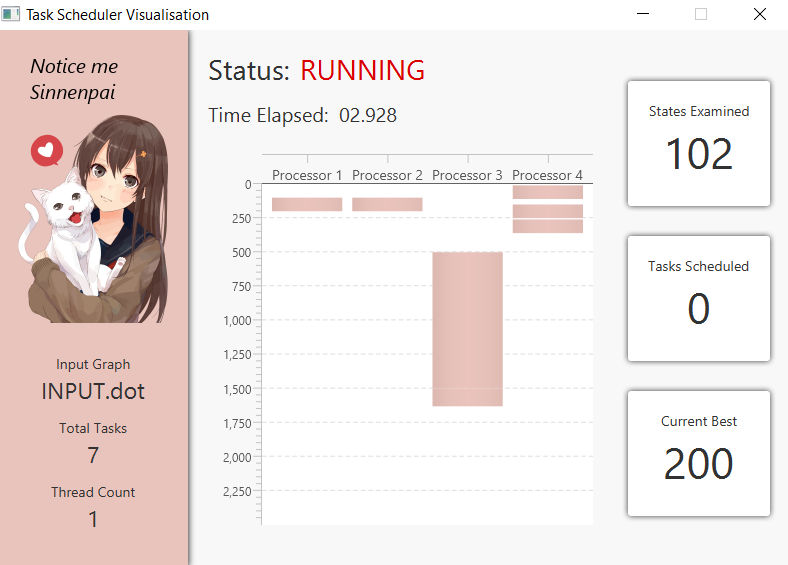
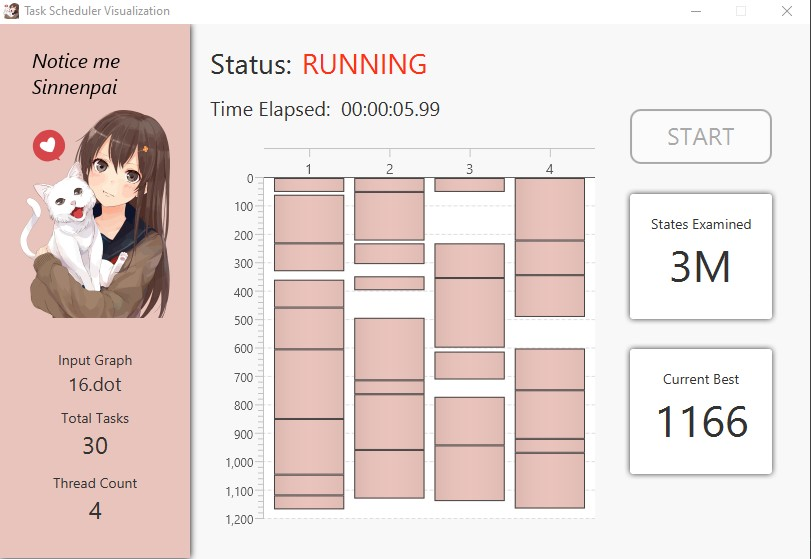
Visualization wiki update (#103)

diff --git a/src/main/java/gui/Visualiser.java b/src/main/java/gui/Visualiser.java
@@ -23,7 +23,7 @@ public class Visualiser extends Application {
 
         this.controller = loader.getController();
 
-        primaryStage.setTitle("Task Scheduler Visualisation");
+        primaryStage.setTitle("Task Scheduler Visualization");
         primaryStage.setScene(new Scene(root, 800, 525));
         primaryStage.setResizable(false);
         primaryStage.getIcons().add(new Image("gui/logo.png"));

diff --git a/wiki/Visualization.md b/wiki/Visualization.md
@@ -4,32 +4,33 @@ This can be enabled by including the `-v` flag when running the program.
 
 ## Goals
 The goals of the visualization were to provide a meaningful reflection of the algorithm,
-as it exhaustively searches the possible schedules. We wanted to include both a visual 
-representation of the partial schedules created, as well as some informative statistics 
-about the execution of the algorithm.'
+as it exhaustively searches all possible schedules. We wanted to include both a visual 
+representation of the current best schedule created, and some informative statistics 
+about the execution of the algorithm.
 ## Solution
-The interface for the visualization is shown below:
+The Graphical User Interface (GUI) for the visualization is shown below:
 ![](images/gui.png)
 
-The main chart displays the partial schedule, which is being searched by the algorithm.
+The main chart displays the current best schedule.
 This is updated live as the algorithm executes, along with the time elapsed, states 
-searched, tasks scheduled, and best finishing time found so far.
+searched, and the best finishing time found so far.
 
 ## Implementation
-[JavaFX](https://openjfx.io/) was used, along with 
+[JavaFX](https://openjfx.io/) was used along with 
 [Scene Builder](https://gluonhq.com/products/scene-builder/) in order to easily 
 integrate with the rest of the project and speed up development. To convert the 
-project into a java application, we made the `Driver` class extend 
+project into a java application, we made the `Visualiser` class extend 
 `javafx.application.Application`. If the `-v` flag is received, we launch the 
 application. The `Controller` class encapsulates the logic of the GUI, while the 
 visual components are described in `visualisation-view.fxml`.
 
 ### Multi-threading
 The application runs on the main GUI thread, which is automatically managed by JavaFX 
-to poll for events. The solution thus needs to run on background threads, and update 
-the polling GUI thread. We achieved this by refactoring the algorithm processing into 
-subclasses of `javafx.concurrent.Task`. This is explained in more detail 
-[here](./Parallelisation.md).
+to poll for events. To achieve this, we wrapped the solution in a `SolutionThread` class
+which extends `Thread`. This is instead where the solution runs. The class acts as a bridge
+between the solution and the GUI, and contains fields the GUI needs which are updated as the
+solution runs. From the JavaFX application thread in `Controller`, the GUI periodically 
+polls the `SolutionThread` to receive updated information from the solution.
 
 ## Issues
 The algorithm runs very quickly with a few nodes (<14) and/or processors, so the live 
